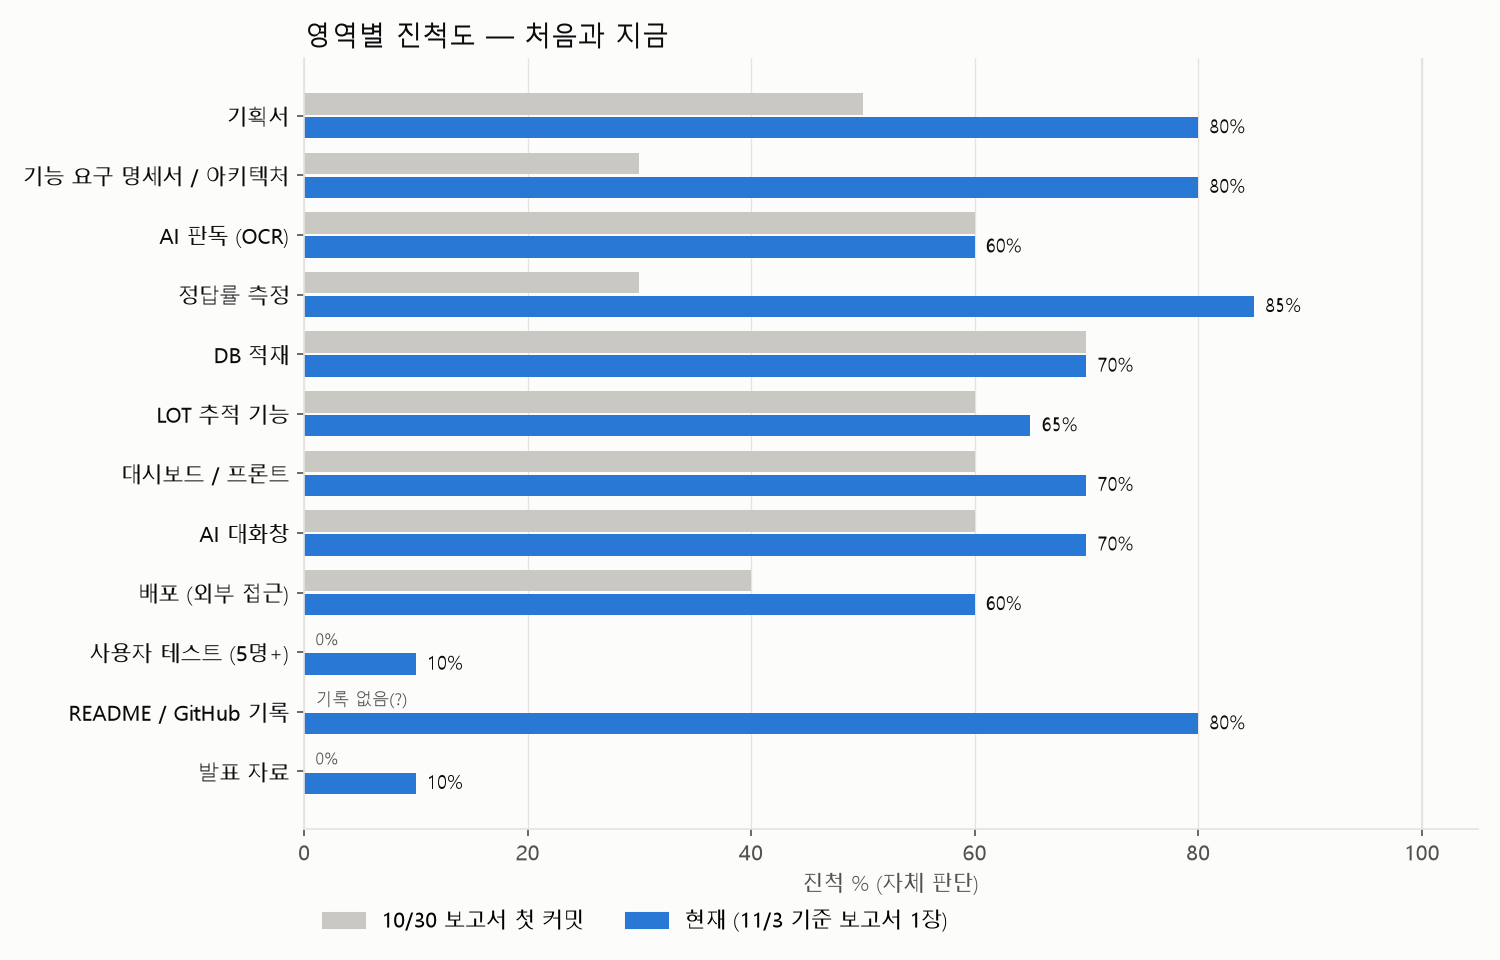
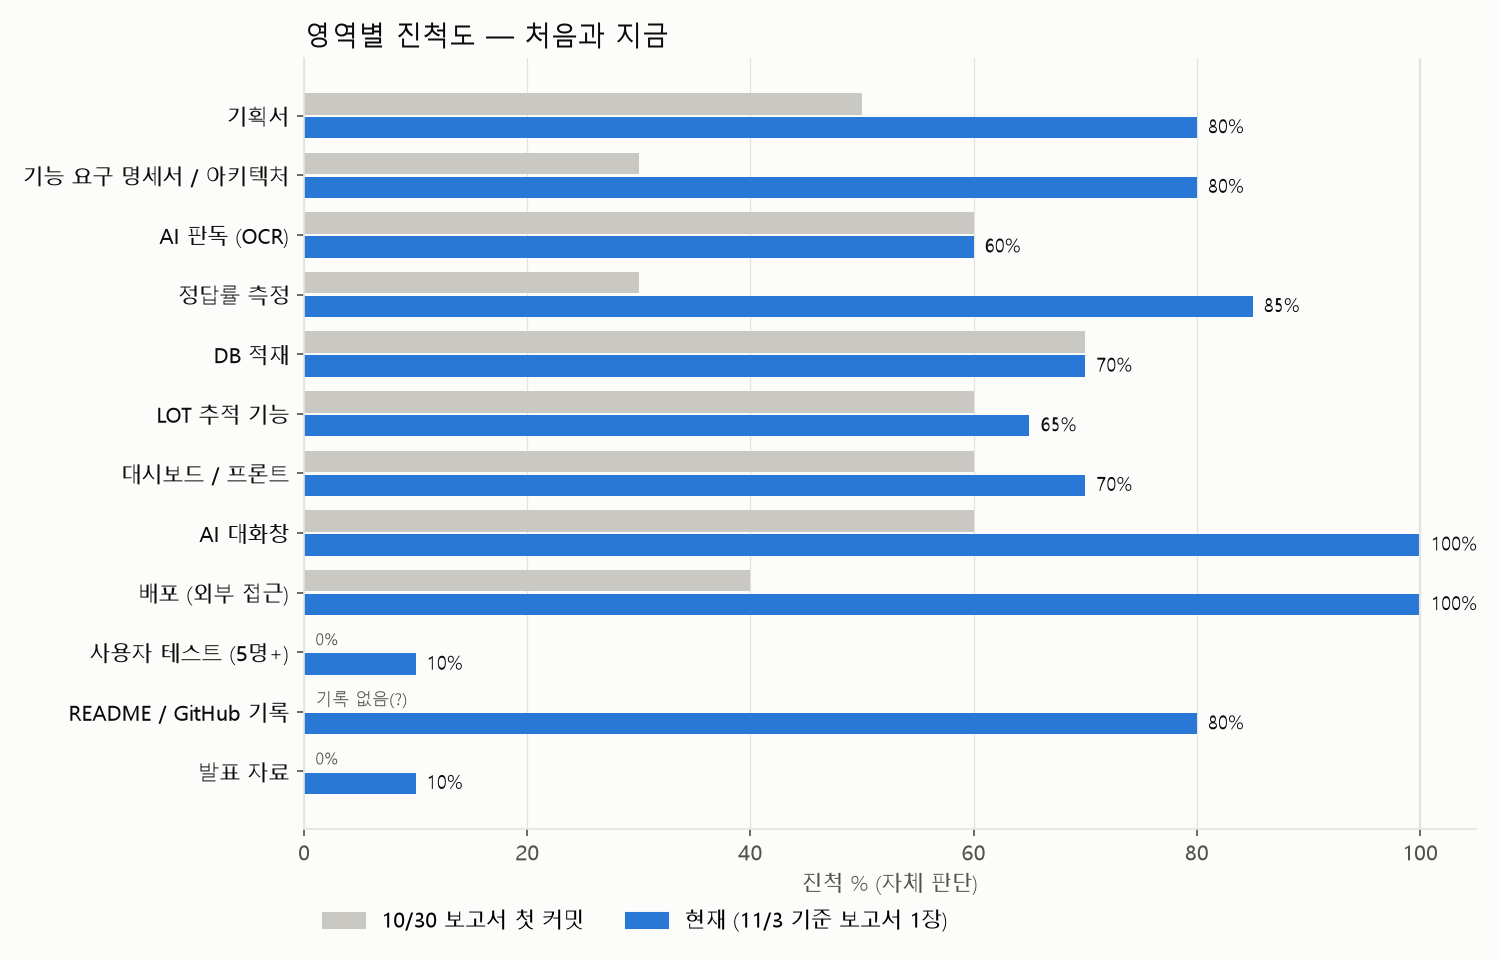
docs: 진척도 갱신 — AI 대화창 100%, 외부 배포 100%(요건 충족), 팀 DB 전환은 남은 일로 분리

diff --git a/docs/M3-1_과제보고서.md b/docs/M3-1_과제보고서.md
@@ -476,8 +476,8 @@ flowchart LR
 | DB 적재 | 🟡 | 70% | 개인 Supabase(IMEB3, 팀 스키마 동일)에 8·9월 판독본 + 8월 전사본 적재 완료, 사출조건 IV 9장 적재(11/2). 팀 DB 전환은 쓰기 권한 대기 |
 | LOT 추적 기능 | 🟡 | 65% | 사출→스티칭→BA→CA→최종검사 사슬 + 자재 LOT 가지 DB 뷰·그래프·추적 화면 동작. 완전 사슬 CA LOT 49/74. 남은 끊김은 7월 일보 미수록분 |
 | 대시보드 / 프론트 | 🟡 | 70% | 강*아 — M1-2 전체흐름 화면(피시본 그래프·모델 색) 그대로 + 데이터만 `mqi`. 표 화면(`tables.html`)·관리 화면 별도. 사출(BB) 조건 화면·배치안 A·추적 중 LOT 띠(11/2~11/3). CA 클릭 시 초품 핀 위치도 화면 시안 확정(11/2), 구현 11/3. 팀장 직접 점검(그래프 정확성) 및 이*관 버전과 통합 방식 협의 남음 |
-| AI 대화창 | 🟡 | 70% | 강*아 — M1-2 챗봇을 `mqi` 조회 도구로 연동(FastAPI `/api/chat`, Claude 에이전트), AI 생성 표시 완료, 사출조건 도구로 그래프 연동(11/2). 질문 범위 확장 남음 |
-| 배포 (외부 접근) | 🟡 | 60% | 팀 OCR 입력 앱은 이*규가 Render 에 배포(10/11, https://m3-1-rawdata-demo.onrender.com). 이력추적·대화창 대시보드도 Render 에 올림(10/30, https://m1-3-imeb3-dashboard.onrender.com, 개인 DB 기준). 최종 배포 구성은 팀 협의 |
+| AI 대화창 | ✅ | 100% | 강*아 — M1-2 챗봇을 `mqi` 조회 도구로 연동(FastAPI `/api/chat`, Claude 에이전트), AI 생성 표시 완료. 질문 범위 확장 완료: 사출조건 도구(11/2)·위치도 도구(11/3), 대화 질문의 LOT 으로 그래프 연동. 사용자 테스트 피드백은 요건 4 에서 관리 |
+| 배포 (외부 접근) | ✅ | 100% | 팀 OCR 입력 앱은 이*규가 Render 에 배포(10/11, https://m3-1-rawdata-demo.onrender.com). 이력추적·대화창 대시보드도 Render 에 올림(10/30, https://m1-3-imeb3-dashboard.onrender.com, 개인 DB 기준). 외부 접속·팀원 로그인 동작 → 요건 충족. 팀 DB 전환·최종 구성은 남은 일 6-1 의 5번으로 따로 관리 |
 | 사용자 테스트 (5명+) | ⬜ | 10% | **필수 요건** — 테스터 안내문(공개)·섭외 메시지 준비(10/31). 11/5~11/8 실시, 섭외 진행 중 |
 | README / GitHub 기록 | 🟡 | 80% | 공개 저장소 README 를 결과물 양식(개요·역할·스택·실행·결과·바로 열기 링크)으로 정리(10/31). 팀 저장소 README 정리 남음 |
 | 발표 자료 | ⬜ | 10% | 정답률 표·그래프 2장·대표 오류 사례 3건 준비됨. pptx 초안 v0.1(17장, 실명 포함이라 로컬 전용)에 시연 동영상·테스트 결과 채울 것 |
@@ -488,9 +488,9 @@ flowchart LR
 
 | # | 필수 요건 | 상태 | 관련 진척 | 근거·메모 |
 |---|---|:---:|---:|---|
-| 1 | 생성형 AI / AI Agent가 서비스 핵심 기능 | 🟡 | 판독 60% · 대화창 70% | Claude API 판독 + Claude 에이전트 대화창(DB 조회 도구) |
+| 1 | 생성형 AI / AI Agent가 서비스 핵심 기능 | 🟡 | 판독 60% · 대화창 100% | Claude API 판독 + Claude 에이전트 대화창(DB 조회 도구) |
 | 2 | 필수 기술 요소 2개 이상 | 🟡 | 3개 동작 | 멀티모달 + 자동화 워크플로우 + AI Agent |
-| 3 | 서비스 **외부 접근 가능하게 배포** | 🟡 | 60% | 팀 OCR 입력 앱(이*규, Render 10/11) + 이력추적·대화창 대시보드(Render 10/30). 둘 다 Supabase. 최종 배포 구성·DB 통합은 팀 협의 |
+| 3 | 서비스 **외부 접근 가능하게 배포** | ✅ | 100% | 팀 OCR 입력 앱(이*규, Render 10/11) + 이력추적·대화창 대시보드(Render 10/30). 둘 다 Supabase, 외부 접속·로그인 확인. 팀 DB 전환은 별도 남은 일 |
 | 4 | **실사용자 5명 이상** 테스트·피드백 | ⬜ | 10% | 안내문 `docs/사용자테스트/테스터_안내문.md`(과제 4개·설문·동의·진행자 체크리스트)와 섭외 메시지 준비. 11/5~11/8 실시 예정, 사내 품질·생산·전산 담당자 섭외 중 |
 | 5 | GitHub 버전 관리 기록 | 🟡 | 80% | 팀 `neoinkyu/M3-1`(비공개) + 개인 통합 `solarjina-geena/M1-3`(공개, 과제보고서 포함, 커밋 50개·팀원 PR 포함) — 커밋 꾸준히 남기기 |
 | 6 | AI 생성 콘텐츠임을 사용자에게 명시 | ✅ | 100% | AI 창 "답변은 AI(Claude)가 생성" 문구·"AI:" 접두, 사진 판독 결과 "AI 판독값 — 사람 확인 전" 표시 (M1-3 화면) |
@@ -538,7 +538,7 @@ flowchart LR
 | 2 | 피드백 반영 후 기획서·명세서·README 마무리 | 결과물 1·2·5·7 | 11/8 ~ 11/10 |
 | 3 | 발표 자료 v0.2 (시연 동영상·테스트 결과·정답률) | 결과물 8, 발표 필수 "OCR 정답률 제시" | 11/10 ~ 11/11 |
 | 4 | OV·HSV 사출조건 적재 + CA 초품 위치도 구현 | 사출·CA 화면을 세 모델 모두로 | 11/3 ~ (❓ 완료일 확인 필요) |
-| 5 | 팀 DB 전환·최종 배포 구성 협의 (이*규, 이*관 버전 통합) | 요건 3, 개인 DB → 팀 DB | 이*규 승인 후 (❓ 일정 확인 필요) |
+| 5 | 팀 DB 전환·최종 배포 구성 협의 (이*규, 이*관 버전 통합) | 배포 요건은 충족, 개인 DB → 팀 DB 전환과 버전 통합이 남음 | 이*규 승인 후 (❓ 일정 확인 필요) |
 
 그 밖에: fivedb 정답률 측정, 최종검사 비교 규칙 합의(박*경), 정답지 오류 8건 전달, 사출1 압력 기준값 현장 확인, 7월 사출 일보 확보, 발표 전 Render 깨우기·로그인 비밀번호 변경.
 
@@ -621,3 +621,4 @@ flowchart LR
 | 2026-11-03 | 사출 화면 배치 시안 A~D 비교 → A 교체형 선택. 카드 맨 위 '추적 중 LOT' 띠(사출→스티칭→권선→압입→최종검사 칩, 현재 위치 표시), 사출 그래프 폭 맞춤. 관찰: 사출1 압력이 모든 LOT 에서 SPEC 50±5 상한 초과 → 기준값 현장 확인 필요 |
 | 2026-11-03 | 과제보고서를 처음(M3-1 팀 계획)부터 M1-3 까지 한 흐름으로 재구성: 과제 개요 → 출발점 → 단계별 진행 → 어려움과 해결 → 현재 진척도 → 남은 일 → 변경 이력. Mermaid 일정·데이터 흐름·LOT 사슬 그림, 새 그래프 3장(`docs/img/진행_1~3_*.png`), 사출 시안 이미지 삽입 |
 | 2026-11-03 | CA 초품 핀 위치도를 대시보드에 반영: 뷰 `m13_position_checks`(판정은 DB 기준값으로 계산), 저장 RPC `m13_position_save`(같은 날 재저장은 이전 기록 VOID, CA 실행은 그날·모델 1건일 때만 연결), CA 클릭 화면(핀 확대 그림·추이·시료표, 표시범위 고정), AI 도구 `get_position_checks`. 작업일보 관리 화면에 'CA 초품 위치도'(붙여넣기·미리보기 판정) 와 'CRUD 이력'(공정 단계별, 저장 1회 단위) 탭 추가, 모든 저장의 actor·사유를 `web:로그인(가림)` / `[공정] 입력경로 · 요약` 으로 통일 |
+| 2026-11-03 | 진척도 갱신: AI 대화창 70→100%(질문 범위 확장 완료 — 사출조건·위치도 도구, 대화 LOT → 그래프 연동), 외부 배포 60→100%(외부 접속·로그인 동작으로 요건 3 충족). 팀 DB 전환·최종 구성은 남은 일로 분리 |
